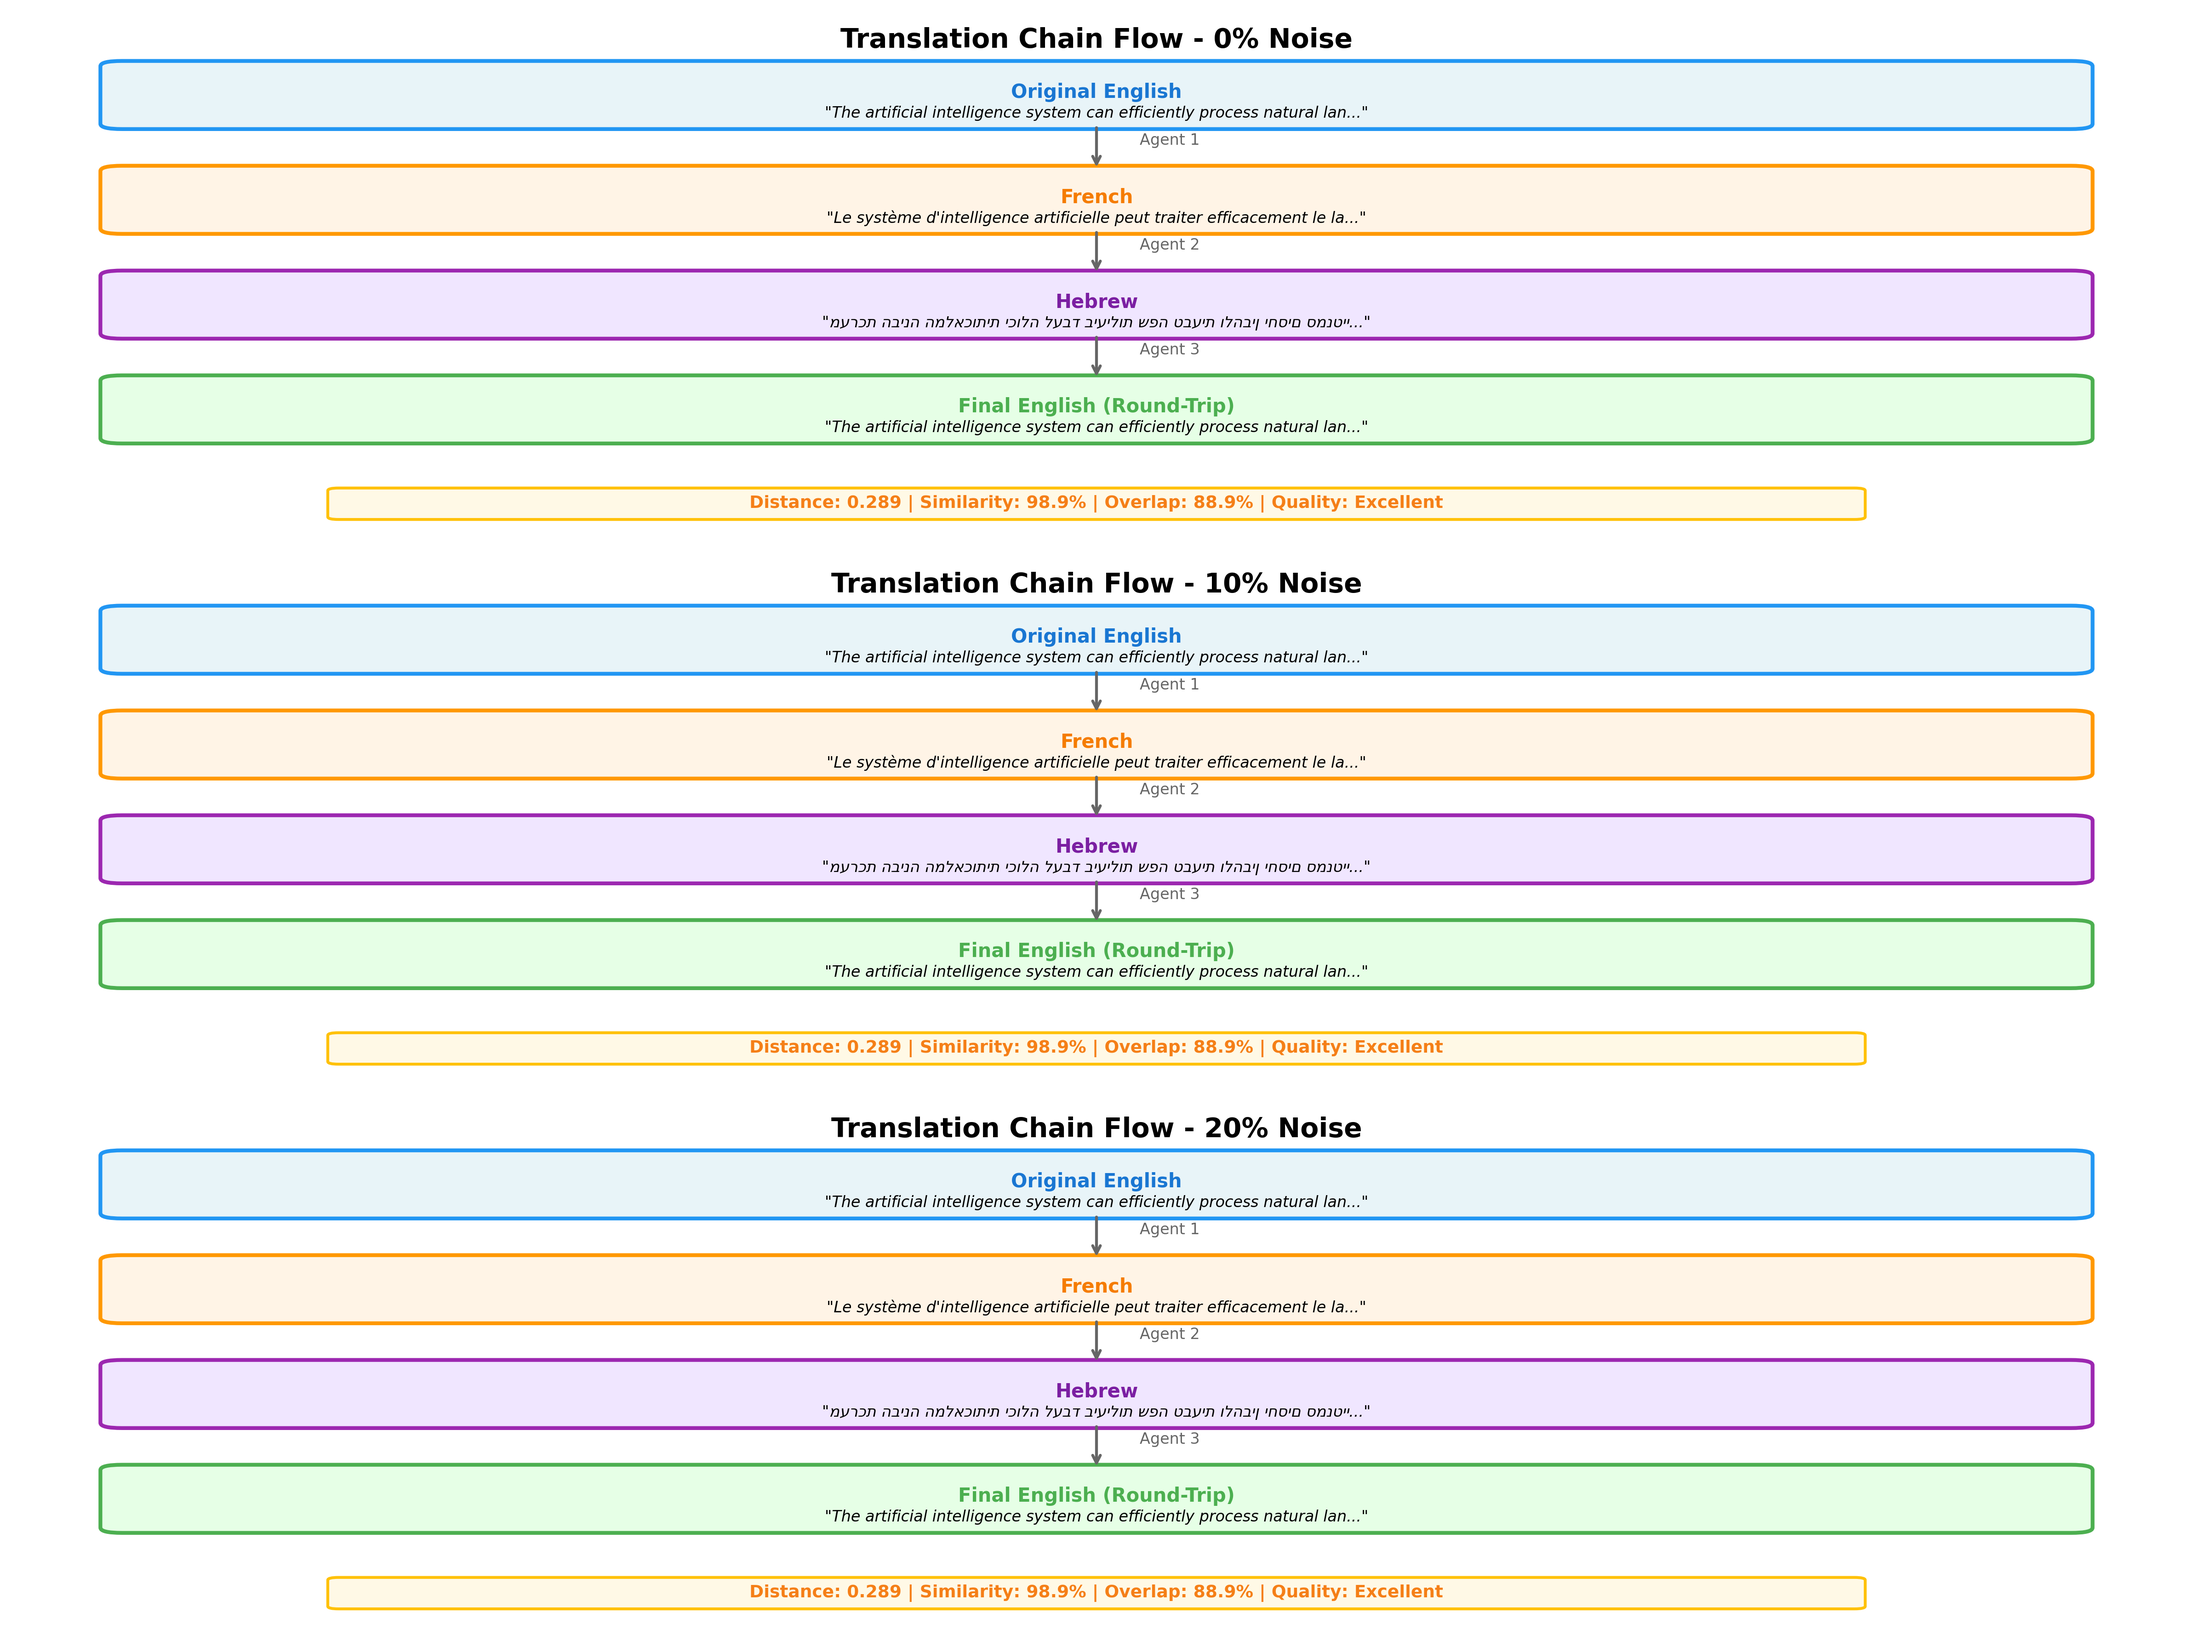
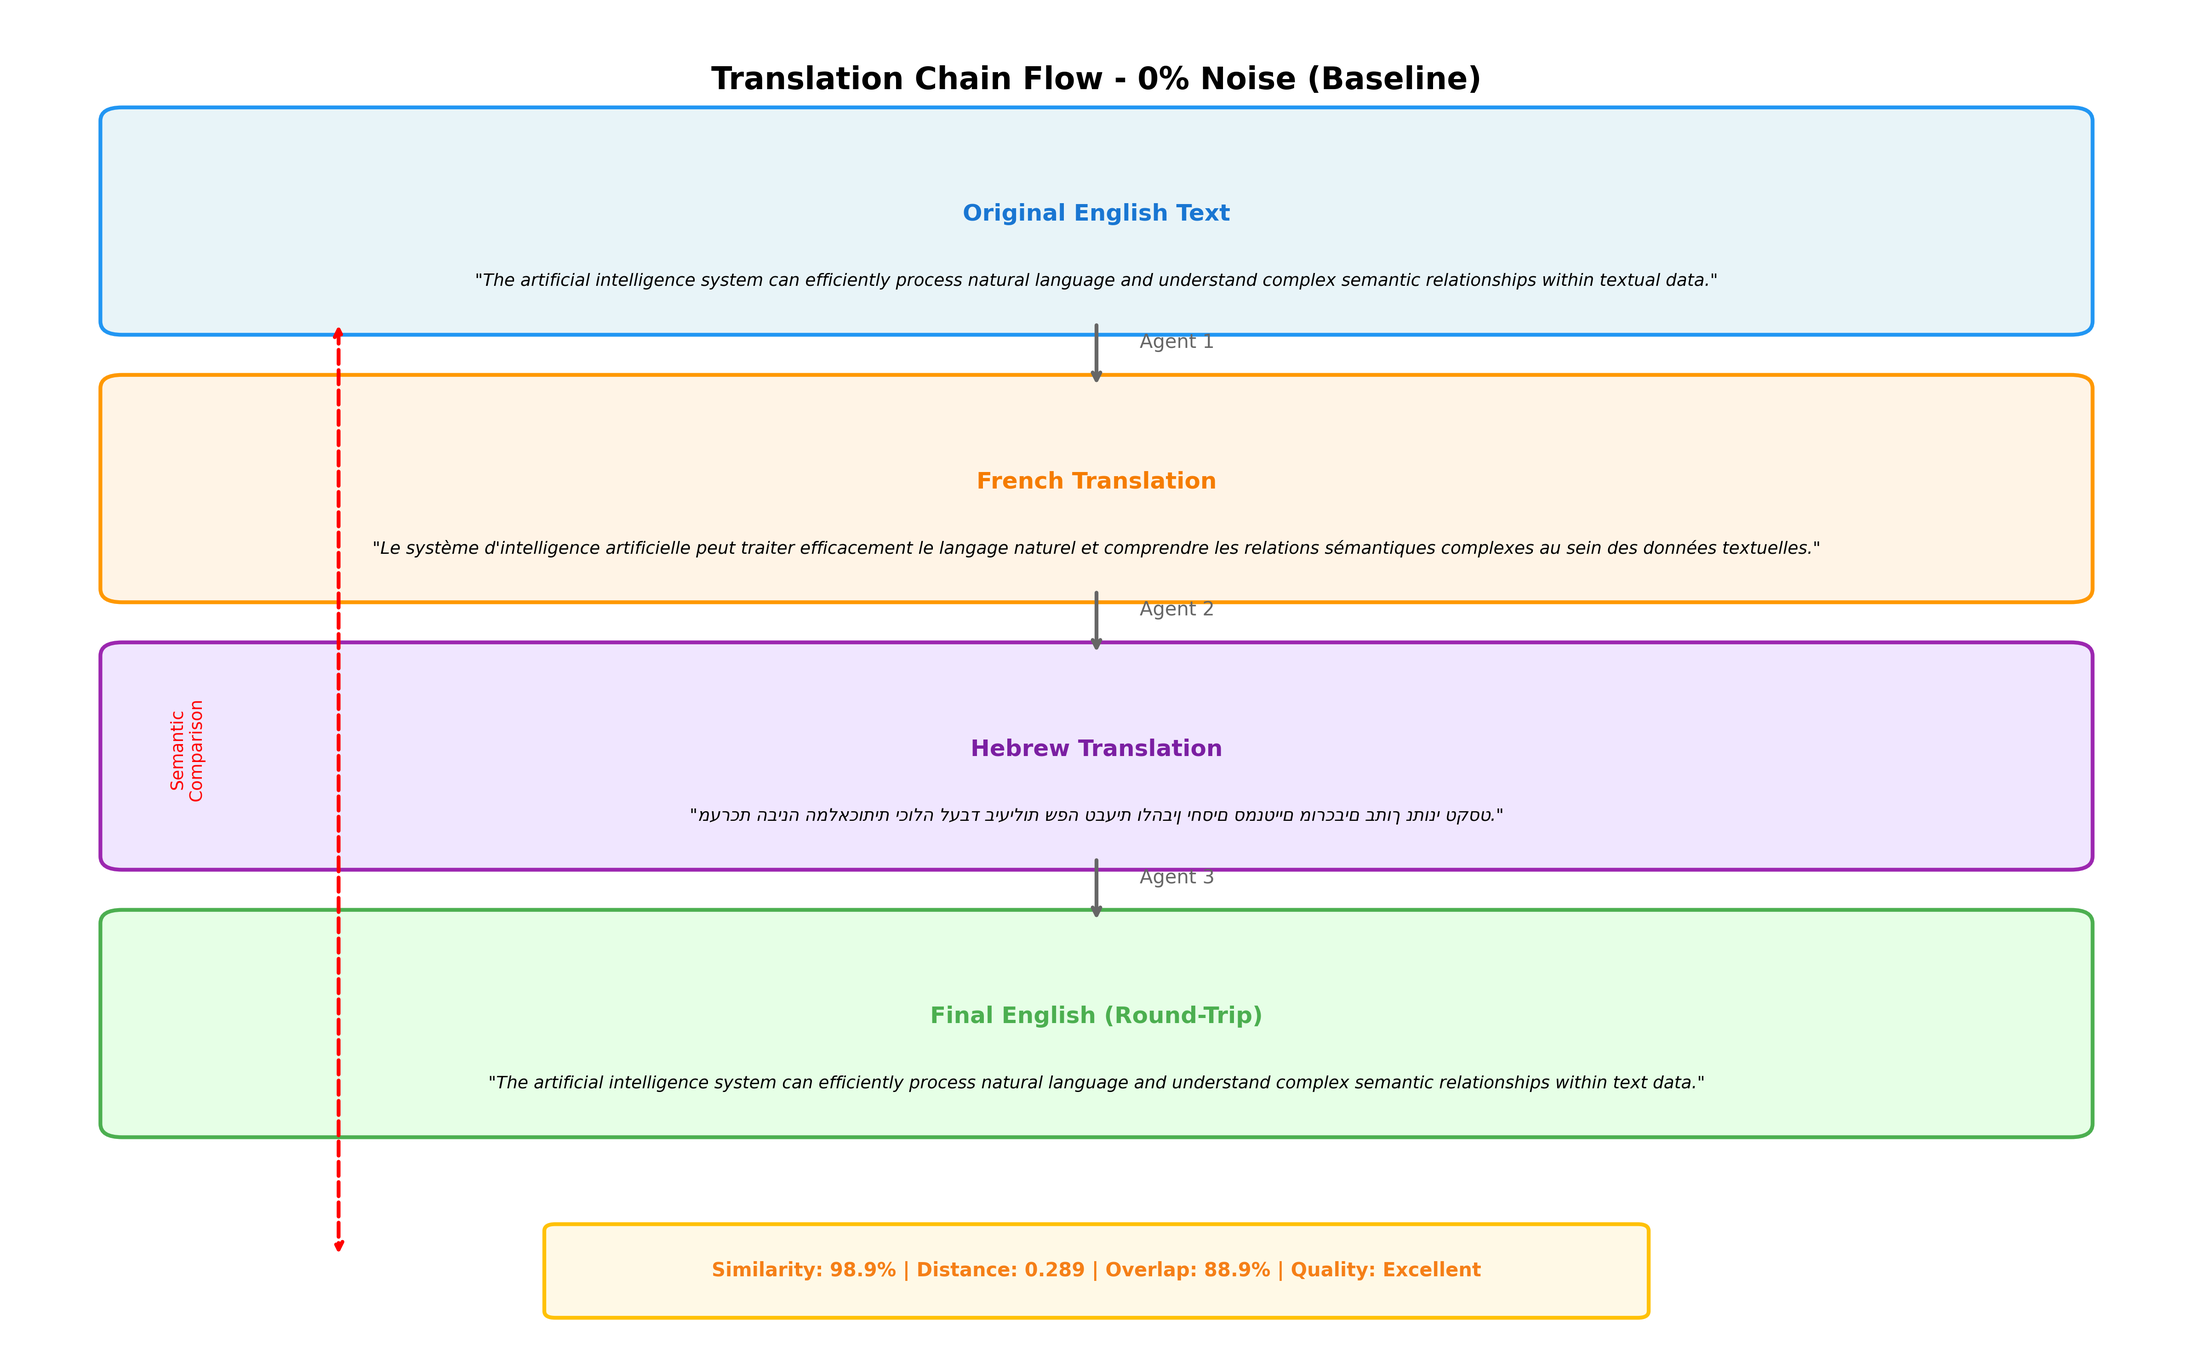
Show only baseline (0% noise) visualization without missing data messages

diff --git a/README.md b/README.md
@@ -106,11 +106,11 @@ streamlit run src/dashboard.py
 
 **All Noise Levels Comparison:**
 
-This visualization compares the translation flow across all tested noise levels:
+This visualization shows the baseline translation flow with 0% noise (no errors):
 
 ![All Noise Levels Flow](./assets/screenshots/all_noise_levels_flow.png)
 
-You can see how the translations change as noise increases from 0% to 50%, and how the semantic quality metrics (distance, similarity, overlap) are affected.
+This demonstrates perfect semantic preservation through the translation chain when no noise is introduced.
 
 
 The following visualization shows how the sentence transforms through each agent in the pipeline:
